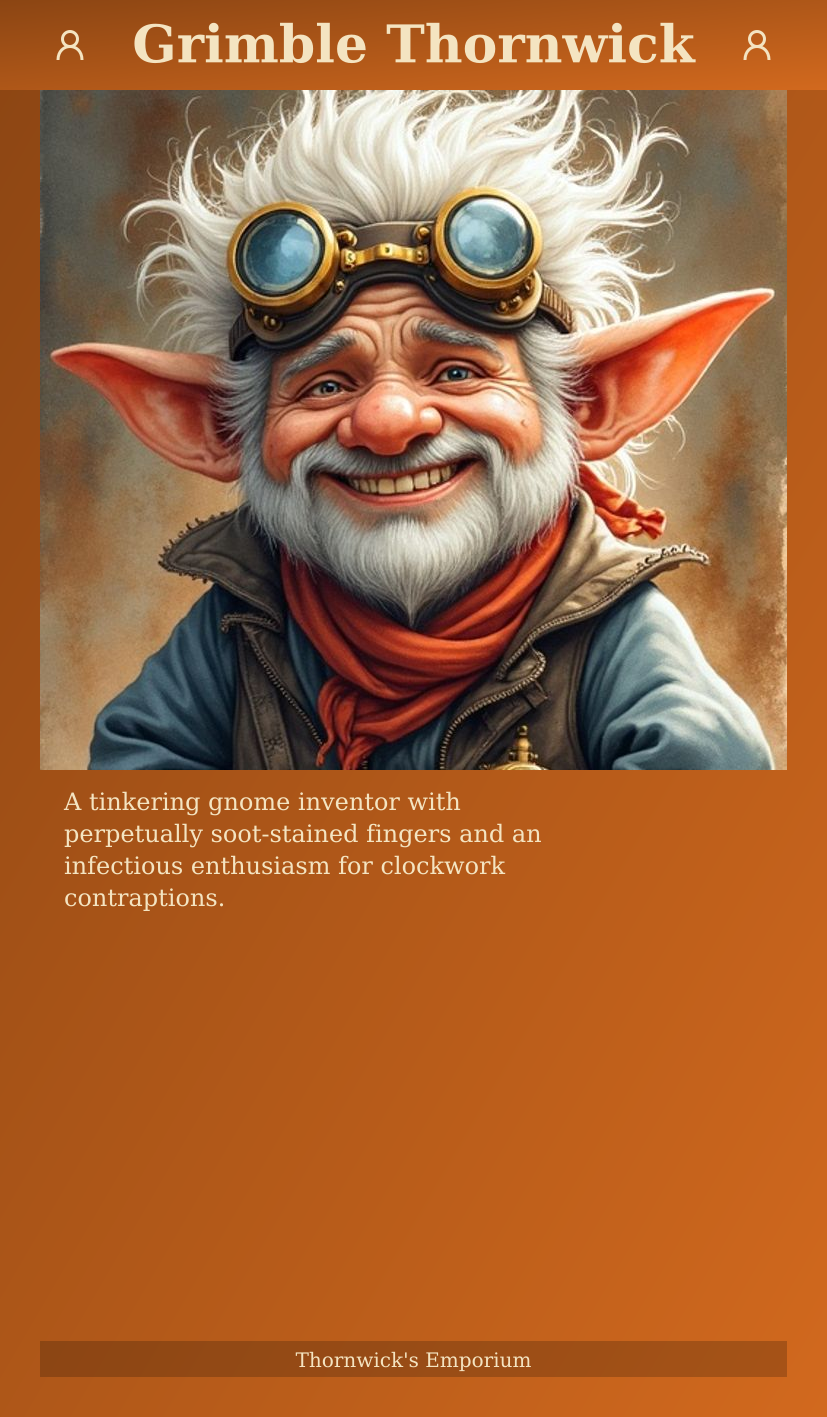
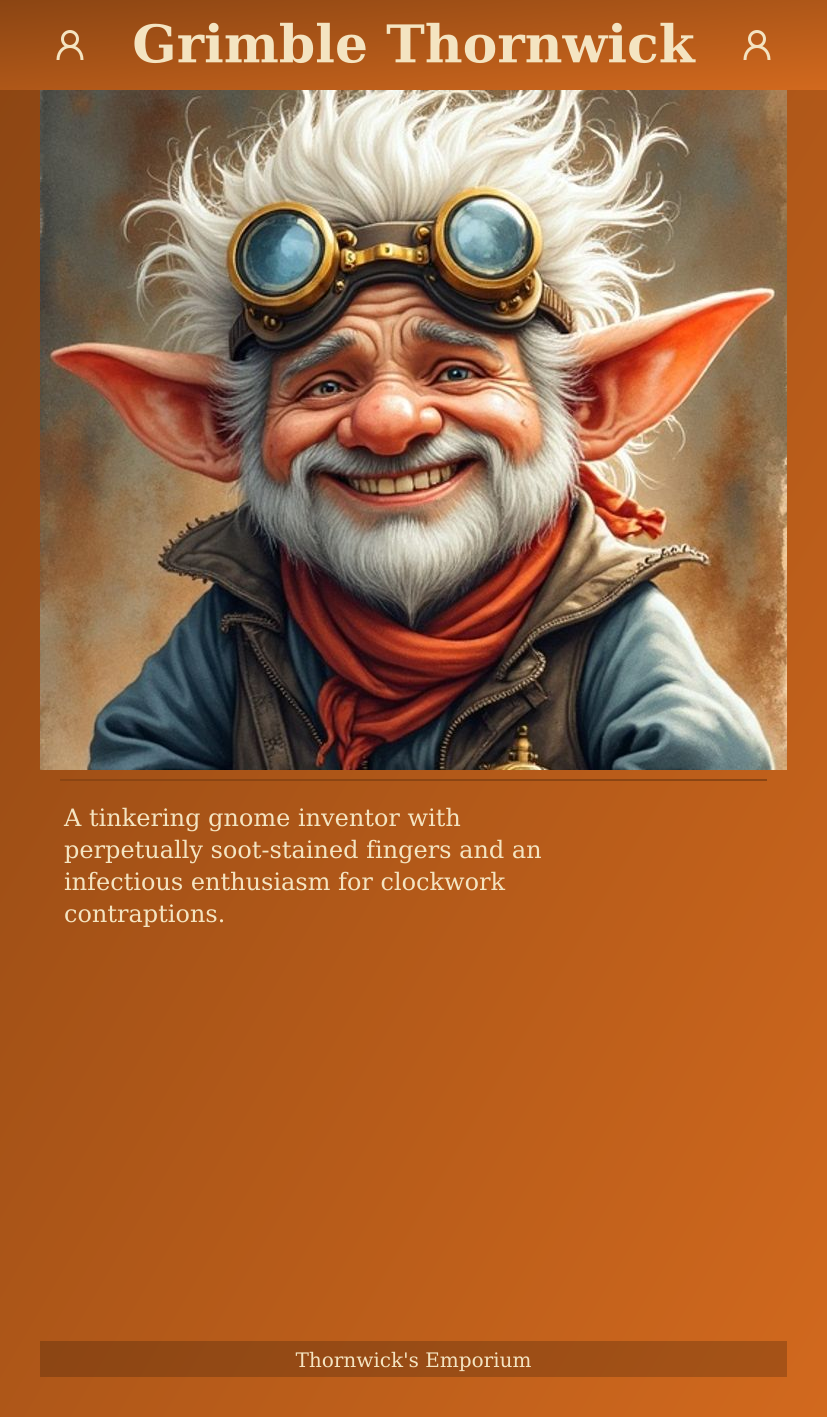
Add divider line to default, fix typography table layout
- Default now includes divider line between portrait and text
- Split typography comparison into 2 rows of 2 images (fixes browser sizing issue)
- Rename 04-divider-line to 04-no-divider (inverted comparison)

Card size unchanged: 827×1417px (tarot, sleeve: 73×122mm)

Changed region(s): [[0.0605, 0.5589, 0.6651, 0.6521]]

diff --git a/packages/card-generator/scripts/generate-all-variants.js b/packages/card-generator/scripts/generate-all-variants.js
@@ -100,9 +100,9 @@ const variants = [
   // === CURRENT DEFAULT ===
   {
     id: '00-default',
-    desc: 'NEW DEFAULT: Header full-width, 40px side border, icons',
+    desc: 'NEW DEFAULT: Header full-width, 40px side border, icons, divider',
     gen: async (p, o) => {
-      const svg = baseFullFrame();
+      const svg = baseFullFrame({ divider: true });
       await render(svg, p, o, B, 90, W - B*2, 680);  // portrait at y=headerH
     }
   },
@@ -153,10 +153,10 @@ const variants = [
 
   // === DECORATIVE ELEMENTS ===
   {
-    id: '04-divider-line',
-    desc: 'Divider line between portrait and text',
+    id: '04-no-divider',
+    desc: 'No divider line between portrait and text',
     gen: async (p, o) => {
-      const svg = baseFullFrame({ divider: true });
+      const svg = baseFullFrame({ divider: false });
       await render(svg, p, o, B, 90, W - B*2, 680);
     }
   },
@@ -227,7 +227,7 @@ async function main() {
   // Generate markdown
   let md = `# Layout Variant Comparison
 
-New default: **Full frame**, 40px border, 90px header, solid color, icons, divider line.
+New default: **Full frame**, 40px border, 90px header, solid color, icons, **divider line**.
 
 ---
 
@@ -257,17 +257,21 @@ New default: **Full frame**, 40px border, 90px header, solid color, icons, divid
 
 ## Decorative Elements
 
-| Default | With divider line |
+| With divider (default) | Without divider |
 |:---:|:---:|
-| <img src="00-default.png" width="250"/> | <img src="04-divider-line.png" width="250"/> |
+| <img src="00-default.png" width="250"/> | <img src="04-no-divider.png" width="250"/> |
 
 ---
 
 ## Typography
 
-| Serif (default) | Sans-serif | Centered | Italic |
-|:---:|:---:|:---:|:---:|
-| <img src="00-default.png" width="250"/> | <img src="05-sans-serif.png" width="250"/> | <img src="06-centered-text.png" width="250"/> | <img src="07-italic-desc.png" width="250"/> |
+| Serif (default) | Sans-serif |
+|:---:|:---:|
+| <img src="00-default.png" width="300"/> | <img src="05-sans-serif.png" width="300"/> |
+
+| Centered | Italic |
+|:---:|:---:|
+| <img src="06-centered-text.png" width="300"/> | <img src="07-italic-desc.png" width="300"/> |
 
 ---
 `;

diff --git a/campaigns/example/cards/exploration/VARIANTS.md b/campaigns/example/cards/exploration/VARIANTS.md
@@ -1,6 +1,6 @@
 # Layout Variant Comparison
 
-New default: **Full frame**, 40px border, 90px header, solid color, icons, divider line.
+New default: **Full frame**, 40px border, 90px header, solid color, icons, **divider line**.
 
 ---
 
@@ -30,16 +30,20 @@ New default: **Full frame**, 40px border, 90px header, solid color, icons, divid
 
 ## Decorative Elements
 
-| Default | With divider line |
+| With divider (default) | Without divider |
 |:---:|:---:|
-| <img src="00-default.png" width="250"/> | <img src="04-divider-line.png" width="250"/> |
+| <img src="00-default.png" width="250"/> | <img src="04-no-divider.png" width="250"/> |
 
 ---
 
 ## Typography
 
-| Serif (default) | Sans-serif | Centered | Italic |
-|:---:|:---:|:---:|:---:|
-| <img src="00-default.png" width="250"/> | <img src="05-sans-serif.png" width="250"/> | <img src="06-centered-text.png" width="250"/> | <img src="07-italic-desc.png" width="250"/> |
+| Serif (default) | Sans-serif |
+|:---:|:---:|
+| <img src="00-default.png" width="300"/> | <img src="05-sans-serif.png" width="300"/> |
+
+| Centered | Italic |
+|:---:|:---:|
+| <img src="06-centered-text.png" width="300"/> | <img src="07-italic-desc.png" width="300"/> |
 
 ---
